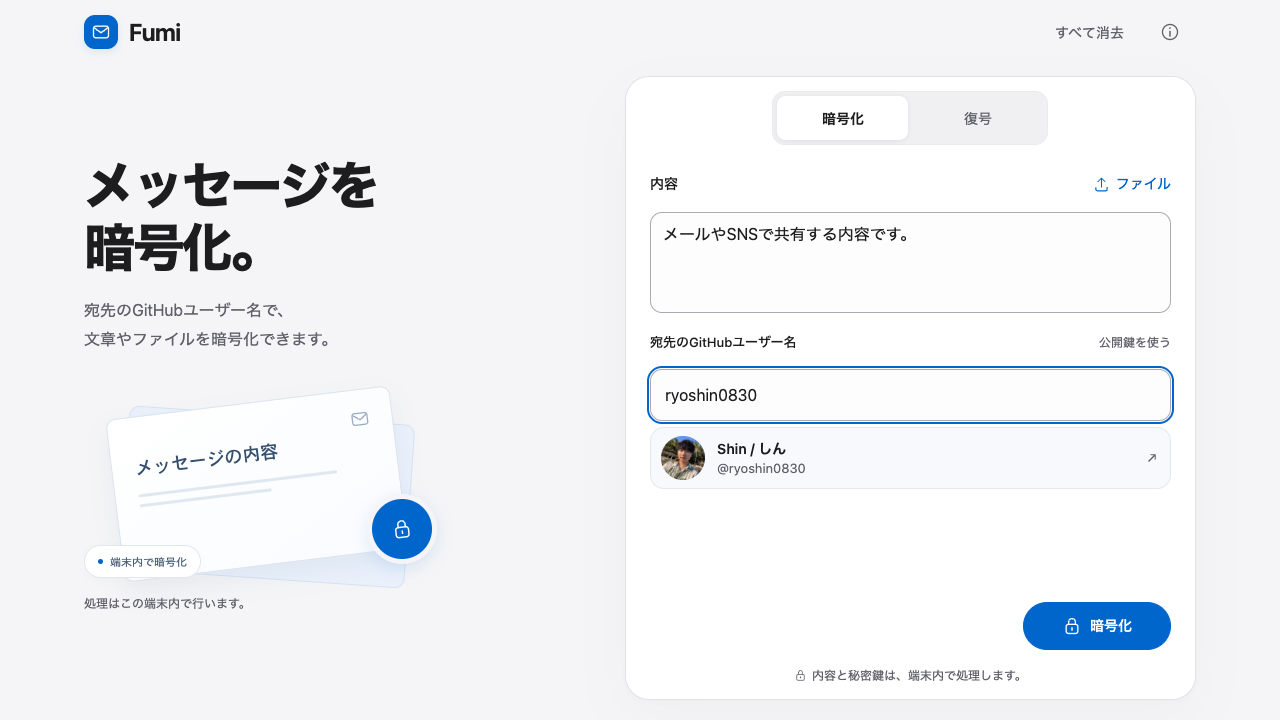
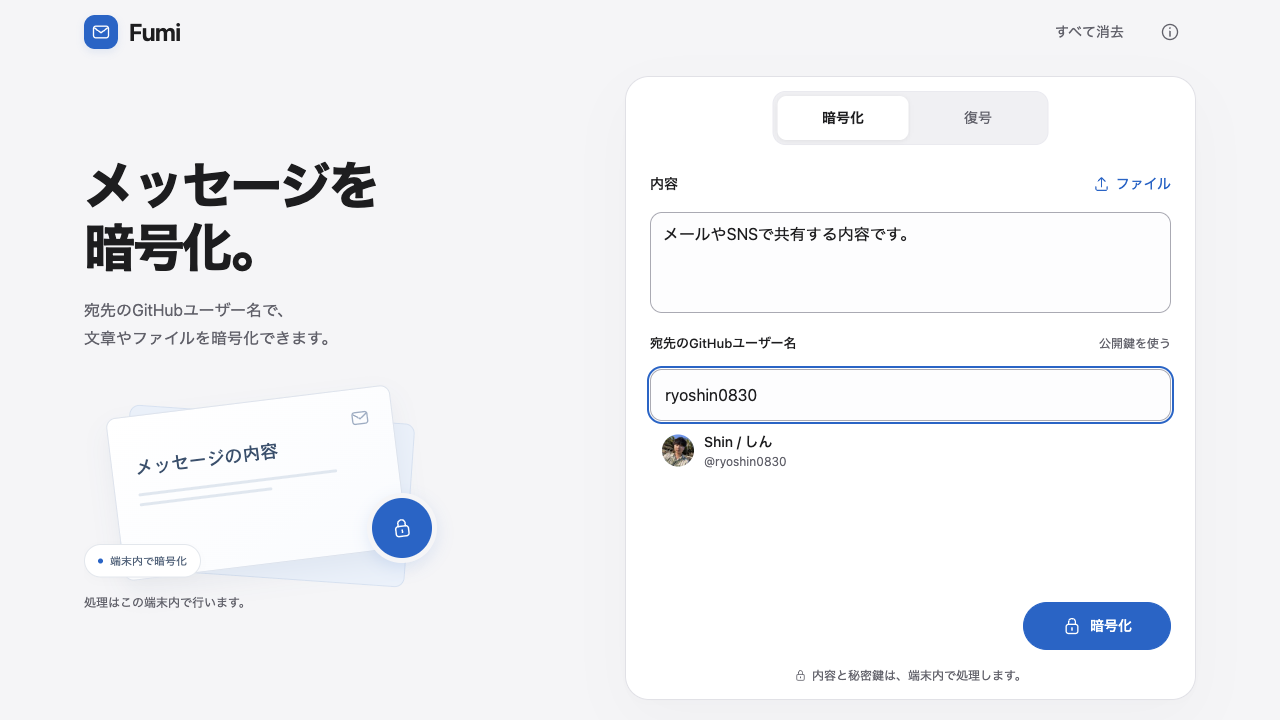
Clarify recipient identity and add optional decryption tips

diff --git a/src/template.html b/src/template.html
@@ -43,7 +43,6 @@
           <circle cx="12" cy="8" r="4" />
           <path d="M4 21v-2a8 8 0 0 1 16 0v2" />
         </symbol>
-        <symbol id="arrow" viewBox="0 0 24 24"><path d="M5 12h14m-5-5 5 5-5 5" /></symbol>
       </defs>
     </svg>
     <header class="site-header">
@@ -182,23 +181,15 @@
                   aria-describedby="recipient-error"
                 />
                 <div id="recipient-preview" class="recipient-preview" hidden>
-                  <div id="recipient-card" hidden>
-                    <a
-                      id="recipient-link"
-                      class="recipient-card"
-                      target="_blank"
-                      rel="noreferrer noopener"
-                    >
-                      <span class="recipient-avatar-wrap"
-                        ><span id="recipient-initial"></span
-                        ><img id="recipient-avatar" alt="" width="44" height="44" hidden
-                      /></span>
-                      <span class="recipient-identity"
-                        ><strong id="recipient-name"></strong><span id="recipient-login"></span
-                        ><span id="recipient-bio"></span
-                      ></span>
-                      <svg class="icon profile-arrow" aria-hidden="true"><use href="#arrow" /></svg>
-                    </a>
+                  <div id="recipient-card" class="recipient-summary" hidden>
+                    <span class="recipient-avatar-wrap"
+                      ><span id="recipient-initial"></span
+                      ><img id="recipient-avatar" alt="" width="32" height="32" hidden
+                    /></span>
+                    <span class="recipient-identity"
+                      ><strong id="recipient-name"></strong><span id="recipient-login"></span
+                      ><span id="recipient-bio"></span
+                    ></span>
                   </div>
                   <p
                     id="recipient-status"
@@ -412,6 +403,17 @@
               ></pre>
               <p id="preview-hint" class="field-hint" hidden></p>
               <p id="result-error" class="field-error" role="alert" hidden></p>
+              <details id="terminal-tips" class="terminal-tips" hidden>
+                <summary>Tips：コマンドで復号</summary>
+                <p>暗号文を「保存」して、保存したフォルダーで実行します。</p>
+                <pre
+                  id="terminal-command"
+                  tabindex="0"
+                  aria-label="復号コマンド"
+                  translate="no"
+                ></pre>
+                <p id="terminal-key-hint"></p>
+              </details>
             </div>
             <div class="result-actions">
               <button id="copy-button" type="button" class="primary-button">

diff --git a/src/styles.css b/src/styles.css
@@ -364,31 +364,26 @@ select {
   margin-bottom: 8px;
 }
 .recipient-preview {
-  margin-top: 6px;
+  margin-top: 8px;
 }
-.recipient-card {
+.recipient-summary {
   display: flex;
   align-items: center;
-  gap: 12px;
-  padding: 8px 10px;
-  border: 1px solid #e4e8ed;
-  border-radius: 14px;
-  background: #f7f9fc;
-  text-decoration: none;
-  color: inherit;
+  gap: 10px;
+  padding: 2px 12px;
 }
 .recipient-avatar-wrap {
   position: relative;
   display: grid;
   place-items: center;
   flex-shrink: 0;
-  width: 44px;
-  height: 44px;
+  width: 32px;
+  height: 32px;
   border-radius: 50%;
   overflow: hidden;
   background: #e3edfa;
   color: #004c99;
-  font-size: 18px;
+  font-size: 14px;
   font-weight: 600;
 }
 .recipient-avatar-wrap img {
@@ -406,21 +401,20 @@ select {
 }
 .recipient-identity strong {
   font-size: 14px;
-  font-weight: 600;
+  font-weight: 500;
   overflow: hidden;
   text-overflow: ellipsis;
   white-space: nowrap;
 }
 #recipient-login {
   color: var(--secondary);
+  font-size: 12px;
+  overflow: hidden;
+  text-overflow: ellipsis;
+  white-space: nowrap;
 }
 #recipient-bio {
   display: none;
-}
-.profile-arrow {
-  width: 16px;
-  color: var(--secondary);
-  transform: rotate(-45deg);
 }
 .recipient-status {
   color: var(--secondary);
@@ -757,11 +751,6 @@ summary:hover {
     transform: translateY(0);
   }
 }
-@media (hover: hover) and (pointer: fine) {
-  .recipient-card:hover {
-    border-color: #9fb8d8;
-  }
-}
 @media (max-width: 1000px) {
   .app-shell {
     gap: 24px;
@@ -850,8 +839,7 @@ summary:hover {
   }
 }
 @media (prefers-contrast: more) {
-  .tool-shell,
-  .recipient-card {
+  .tool-shell {
     border-color: var(--secondary);
   }
 }
@@ -1106,6 +1094,29 @@ dialog details {
 }
 .result-content .result-preview {
   overscroll-behavior: auto;
+}
+.terminal-tips {
+  flex-shrink: 0;
+  margin-top: 8px;
+  color: var(--secondary);
+  font-size: 13px;
+  line-height: 1.6;
+}
+.terminal-tips summary {
+  min-height: 44px;
+}
+.terminal-tips p {
+  margin-bottom: 8px;
+}
+#terminal-command {
+  margin: 0 0 8px;
+  padding: 12px;
+  border-radius: 8px;
+  background: #f5f5f7;
+  color: #1d1d1f;
+  white-space: pre-wrap;
+  overflow-wrap: anywhere;
+  user-select: all;
 }
 .delivery-guide {
   display: flex;

diff --git a/src/ui/result.js b/src/ui/result.js
@@ -4,6 +4,10 @@ export function renderResultView(result, mode) {
   $('result-text').textContent = '';
   $('copy-label').textContent = 'コピー';
   $('delivery-guide').hidden = !result || mode !== 'encrypt';
+  $('terminal-tips').hidden = !result || mode !== 'encrypt';
+  $('terminal-tips').open = false;
+  $('terminal-command').textContent = '';
+  $('terminal-key-hint').textContent = '';
   $('result-panel').dataset.operation = mode;
   if (!result) return;
   const text = result.text !== null;
@@ -23,4 +27,15 @@ export function renderResultView(result, mode) {
   $('preview-hint').textContent = '先頭100,000文字を表示しています。全文はコピー・保存できます。';
   $('copy-button').hidden = !text;
   $('save-button').className = text ? 'secondary-button' : 'primary-button';
+  if (mode === 'encrypt') {
+    const filename = "'" + ('./' + result.filename).replace(/'/g, "'\\''") + "'";
+    $('terminal-command').textContent =
+      result.format === 'ssh'
+        ? `age --decrypt --identity ~/.ssh/id_ed25519 --output restored ${filename}`
+        : `gpg --output restored --decrypt ${filename}`;
+    $('terminal-key-hint').textContent =
+      result.format === 'ssh'
+        ? '~/.ssh/id_ed25519 は、対応するSSH秘密鍵のパスに置き換えてください。'
+        : '対応する秘密鍵を登録したGPGで実行してください。';
+  }
 }

diff --git a/src/ui/recipient.js b/src/ui/recipient.js
@@ -20,7 +20,6 @@ export function createRecipientPreview({ onKeyFallback } = {}) {
     $('recipient-status').textContent = '';
     for (const id of ['recipient-name', 'recipient-login', 'recipient-bio', 'recipient-initial'])
       $(id).textContent = '';
-    $('recipient-link').removeAttribute('href');
     avatar.hidden = true;
     avatar.removeAttribute('src');
   }
@@ -55,7 +54,6 @@ export function createRecipientPreview({ onKeyFallback } = {}) {
         $('recipient-bio').textContent = profile.bio;
         $('recipient-bio').hidden = !profile.bio;
         $('recipient-initial').textContent = profile.login[0].toUpperCase();
-        $('recipient-link').href = 'https://github.com/' + profile.login;
         if (usesKeyServer()) {
           avatar.hidden = false;
           avatar.src = '/api/github-avatar/' + profile.id;

diff --git a/docs/review/motion-ui-verification.md b/docs/review/motion-ui-verification.md
@@ -5,8 +5,8 @@ Verified 2026-10-28 on Node.js 24.15.0, Next.js 16.4.3 and Go 1.27.3. The existi
 ## Automated checks
 
 - `npm run format:check`: passed.
-- `npm run build`: production build passed, including the two new dynamic profile/avatar routes. Web HTML is approximately 93 KiB; standalone HTML is 9.56 MiB. No new runtime dependencies.
-- `GO=/private/tmp/dgpg-go-toolchain/go/bin/go npm test`: 187 tests passed, none skipped. Includes profile transport boundaries, streamed byte limits, abort/timeout handling, avatar content types, result guidance, motion cleanup/reduced motion and both generated CSPs.
+- `npm run build`: production build passed, including the two new dynamic profile/avatar routes. Web HTML is approximately 94 KiB; standalone HTML is 9.57 MiB. No new runtime dependencies.
+- `GO=/private/tmp/dgpg-go-toolchain/go/bin/go npm test`: 189 tests passed, none skipped. Includes profile transport boundaries, streamed byte limits, abort/timeout handling, avatar content types, result guidance, safely quoted terminal commands, motion cleanup/reduced motion and both generated CSPs.
 - `GO=/private/tmp/dgpg-go-toolchain/go/bin/go npm run test:cli`: all 12 compatibility cases passed, including six signed archives and six direct original outputs.
 - `FUMI_URL=http://127.0.0.1:3100/ FUMI_TASK=18 npm run test:browser`: all nine scenario groups passed. Covers GPG/age text and binary files, exact round trips, complete Copy/Save, denied clipboard, manual keys, retained drafts, cancellation, old signatures, mismatched/offline/retry states and tampered data. No JavaScript or CSP errors; captured application requests used only allowed GET endpoints without bodies.
 - `FUMI_URL=http://127.0.0.1:3100/ FUMI_TASK=18 npm run test:motion`: passed against both development and production servers. Covers stale profiles, safe text, advisory failures, manual-key replacement, reset/mode changes, actual encryption/decryption, cancellation/error motion reset, reduced-motion submission and immediate access when the real worker result arrives.
@@ -60,3 +60,13 @@ The page allocates its `100svh` height between the header and tool. The form and
 Reverified all 187 unit tests, 12 CLI cases, the full nine-group browser regression, disclosure suite and motion suite. Browser regression reported no JavaScript/CSP errors and only expected public-data GET requests. Full production build and formatting passed. The production HTTP response was byte-identical to the generated web HTML. Refreshed all six review screenshots, including manual-key and password states at 375×667, and inspected intermediate motion frames.
 
 An independent review found that a long binary file name and expanded signature could still push Save off-screen. Reproduced the failure at 375×667 (document height 920px), then moved result contents into a scrollable wrapper with actions outside it. The 56-state regression and follow-up review confirm that fix; no other material findings remained.
+
+## Passive recipient identity and optional terminal Tips
+
+The GitHub preview is now a compact passive row: 32px avatar, name and login, without the enclosing card, arrow, navigation link or hover effect. No explanation text was added. The existing profile scenario first failed because the old preview contained a link, then passed after this change. Clicking the identity does not navigate or submit; Tab from the username reaches the encryption button. Visually inspected the updated [desktop](motion-desktop.png) and [375×667 profile](recipient-summary-mobile.png).
+
+The user's subsequent request adds a closed 「Tips：コマンドで復号」 below the encrypted preview. It shows the GPG or age command for the saved filename, with save/folder and private-key guidance, only when opened. It stays within the result content; Copy/Save stay fixed. Decryption results omit it. Verified shell argument handling for filenames containing quotes and command-substitution syntax, both command formats and cleanup. Command references: [GnuPG --decrypt](https://www.gnupg.org/documentation/manuals/gnupg/Operational-GPG-Commands.html) and [age usage](https://github.com/FiloSottile/age#usage).
+
+All 189 unit tests, the profile/motion suite and nine-group browser regression passed. The layout suite now covers 64 combinations (eight sizes × eight states), adding expanded terminal Tips; document and ordinary-form overflow remain zero. See [desktop Tips](terminal-tips-desktop.png) and [mobile Tips](terminal-tips-mobile.png). A focused independent review found no material issues.
+
+Investigated the reported second public-key lookup failure separately. Both real GitHub public-key pages returned 200. The review browser recorded successful initial same-origin profile/GPG/SSH requests, while a new request failed and no process listened on port 3100. Restarting Next as a detached process restored both key endpoints (200, one key each). Real GitHub encryption then succeeded twice on fresh page loads at desktop/mobile sizes. The local launcher now exits while Next remains under PID 1, with logs at `/tmp/fumi-local-3100.log`; the unrelated port 3000 process was untouched. No key-fetch or crypto behavior was changed to mask this local-server outage.

diff --git a/docs/design-system.md b/docs/design-system.md
@@ -10,7 +10,7 @@ The interface combines an Apple-inspired introduction with a directly usable enc
 - Header: Fumi, 「すべて消去」 and help. Clear removes inputs, keys and results from both modes.
 - A short privacy caption. Detailed limits, licensing and background live in help.
 
-The short introduction sits beside the tool on desktop and above it on taller mobile screens. Hide the introduction on short mobile screens to preserve space for the form. Keep visible labels even when reducing prose. A debounced GitHub preview shows public name, avatar and login. Profile information remains advisory; encryption validates the selected keys before use.
+The short introduction sits beside the tool on desktop and above it on taller mobile screens. Hide the introduction on short mobile screens to preserve space for the form. Keep visible labels even when reducing prose. A debounced GitHub preview shows public name, avatar and login in a compact passive row below the username. It has no card surface, border, arrow, link, hover treatment or keyboard stop, so it does not resemble a recipient-confirmation action. Profile information remains advisory; encryption validates the selected keys before use.
 
 ## Progressive disclosure
 
@@ -20,7 +20,9 @@ Manual GPG armor/binary and SSH Ed25519/RSA keys use automatic format detection;
 
 Decryption inputs settle for 600ms before a single local attempt. Protected GPG and SSH keys return the typed `PASSPHRASE_REQUIRED` condition, which reveals the password field with a plain-language explanation. Wrong/malformed keys and damaged ciphertext remain ordinary errors. Password typing does not launch expensive guesses. Changing ciphertext or secret key clears the old password and check; Edit does not resubmit. Cancel, file-read cancellation, clear and mode switches prevent stale jobs from appearing.
 
-Text results display immediately, including ciphertext. 「コピー」 is primary, 「保存」 secondary, and 「編集」 retains the draft. Binary results prioritize Save and retain the actual file name. Results have no format disclosure or CLI commands. Encryption alone shows a short envelope-to-recipient animation and copy/save instructions for email or SNS. Use the actual GitHub recipient when registered keys were used; manual public keys get a neutral explanation of the matching private key. Do not imply the app sent anything. Decryption shows the recovered content without this delivery guide.
+Text results display immediately, including ciphertext. 「コピー」 is primary, 「保存」 secondary, and 「編集」 retains the draft. Binary results prioritize Save and retain the actual file name. Results have no format disclosure or always-visible CLI commands. Encryption alone shows a short envelope-to-recipient animation and copy/save instructions for email or SNS. Use the actual GitHub recipient when registered keys were used; manual public keys get a neutral explanation of the matching private key. Do not imply the app sent anything. Decryption shows the recovered content without this delivery guide.
+
+Encryption results have a closed 「Tips：コマンドで復号」 below the preview. Opening it shows a shell-quoted command using the saved filename: GPG for OpenPGP, age with an identity path for SSH. Include the save/folder instruction and the matching private-key requirement. Keep this inside the result scroll area so expanded guidance cannot push Copy/Save off-screen. It is absent from decryption results.
 
 The first 100,000 characters are previewed; Copy and Save use the complete result. A failed clipboard operation selects a complete short preview; a large result directs the user to Save rather than selecting truncated ciphertext.
 

diff --git a/README.md b/README.md
@@ -37,7 +37,7 @@ npm start
 
 宛先を入力すると、公開されている名前・アイコンを表示します。プロフィールの表示は、利用できる暗号鍵や実在人物の身元の確認ではありません。表示に失敗しても暗号化を試せます。暗号化・復号には、文字の変化、手紙の折り畳み、封印や波紋の演出があり、動きを減らす設定にも対応します。
 
-暗号化は1画面で入力して実行します。復号は暗号文と秘密鍵の入力後に自動で試し、必要な場合だけパスワードを求めます。操作の切り替えと結果の「編集」でも入力は保持されます。文字の結果は暗号文・復号文ともすぐに表示し、「コピー」を主な操作にします。ファイルの結果は「保存」を主な操作にします。結果に形式名やCLIコマンドは表示しません。コピー・保存・実行ボタンは操作領域の下部に固定し、長い暗号文や展開した署名情報は内部でスクロールできます。
+暗号化は1画面で入力して実行します。復号は暗号文と秘密鍵の入力後に自動で試し、必要な場合だけパスワードを求めます。操作の切り替えと結果の「編集」でも入力は保持されます。文字の結果は暗号文・復号文ともすぐに表示し、「コピー」を主な操作にします。ファイルの結果は「保存」を主な操作にします。暗号化後の「Tips：コマンドで復号」を開くと、保存ファイル名に合ったGPG／ageコマンドを確認できます。コピー・保存・実行ボタンは操作領域の下部に固定し、長い暗号文や展開したTips・署名情報は内部でスクロールできます。
 
 「すべて消去」は両画面の入力・鍵・結果をまとめて消去します。デモ・サンプル生成・多段階の入力ウィザードはありません。
 
@@ -80,7 +80,7 @@ FUMI_URL=https://your-app.vercel.app npm run test:browser
 
 このリポジトリをNext.jsプロジェクトとしてインポートします。Node.js 24、Build Commandは `npm run build`。環境変数やAPIトークンはアプリの動作に不要です。`main` をProduction Branchにすると、以降のpushが本番デプロイになります。
 
-画面は約93 KiB、暗号エンジンは必要時に同一オリジンのハッシュ付き静的Workerとして取得します。生成HTMLはNext.jsのファイルトレースに含めます。初回の暗号処理にはエンジンのダウンロードが必要です。
+画面は約94 KiB、暗号エンジンは必要時に同一オリジンのハッシュ付き静的Workerとして取得します。生成HTMLはNext.jsのファイルトレースに含めます。初回の暗号処理にはエンジンのダウンロードが必要です。
 
 サーバーなしで使う場合は、`npm run build:client` で生成される `index.html` を開けます。単一HTMLは約9.6 MiBで、暗号エンジンを内包します。**このファイル版の公開鍵・公開プロフィール取得はGitHub REST APIを使用します。** アイコンは頭文字で表示します。 公開鍵の直接入力で暗号処理をオフラインでも利用できます。
 

diff --git a/docs/superpowers/plans/2026-10-28-recipient-summary.md b/docs/superpowers/plans/2026-10-28-recipient-summary.md
@@ -1,0 +1,14 @@
+# Passive recipient summary correction
+
+The user identified that the full-width GitHub profile link resembles a recipient confirmation button. Keep the existing automatic lookup and information below the username, but use a passive identity row: 32px avatar, name and GitHub login, with no enclosing card, border, tinted surface, arrow, hover treatment, link or keyboard stop. No explanation text is added. The blue encryption button remains the primary action.
+
+- [x] Replace the profile anchor with a plain identity row in `src/template.html`; remove link setup/reset in `src/ui/recipient.js`.
+- [x] Simplify the profile styles in `src/styles.css`, retaining name truncation and fallback initials.
+- [x] Extend the existing browser profile scenario to check the passive semantics and click/keyboard behavior; rerun profile/motion and layout states, inspect desktop/mobile screenshots.
+- [x] Add encryption-only terminal Tips and verify both tools, filename shell quoting, cleanup and expanded Tips at all eight sizes (64 layout states total).
+
+Delivery: verify formatting and production build, update the current PR #2 and push this correction. Keep Next running as a detached local process. The PR records the delivered commit and CI outcome; see the current [verification record](../../review/motion-ui-verification.md).
+
+Separate runtime diagnosis: GitHub `.gpg` and `.keys` both returned 200, but the previous local port 3100 process had ended. The existing browser recorded successful initial API requests; a new same-origin key request failed with connection refused. Restart Next as a detached local process with its own log and verify repeat requests after the launcher exits. No crypto or key-fetch fallback change is justified by this evidence.
+
+Follow-up request: add optional local-decryption commands below the encrypted result. Use a closed native disclosure, GPG/age according to the actual output, the actual shell-quoted saved filename, and short private-key/folder guidance. Keep decryption results free of these instructions. Extend the result tests for both tools, safe shell argument handling and cleanup; exercise expanded Tips at all eight viewport sizes.

diff --git a/docs/superpowers/specs/2026-10-28-motion-ui-design.md b/docs/superpowers/specs/2026-10-28-motion-ui-design.md
@@ -27,7 +27,7 @@ Alternative: a long product landing page with scroll chapters. It offers more st
 ## GitHub recipient preview
 
 - After a valid GitHub username, @name or supported profile/key URL is entered, debounce lookup by approximately 450 ms.
-- Show public display name, login and avatar, with a GitHub profile link. Omit the bio to keep the form height predictable. Use textContent and validated GitHub/avatar URLs.
+- Show public display name, login and a 32px avatar in a passive row under the username. No card surface, border, arrow, link, hover state or keyboard stop: the preview is information, not a confirmation action. Omit the bio to keep the form height predictable. Use textContent and a validated avatar source.
 - A same-origin GET endpoint fetches only the public GitHub user profile. Validate usernames; fix the upstream host; bound time and response size; do not forward credentials or arbitrary URLs. Proxy avatars through a narrowly scoped same-origin path or return a safe locally rendered fallback so the page's image policy stays restricted.
 - Profile information is presentation only. A profile card is not a confirmation of usable keys or a person's identity. Check registered key presence as the username settles; validate the actual encryption keys when submitting.
 - Abort superseded requests and guard late responses. Clear/reset, invalid input, manual public keys and mode changes remove stale presentation. Loading, missing accounts, rate limits and network errors have compact states and never block manual keys or normal encryption.
